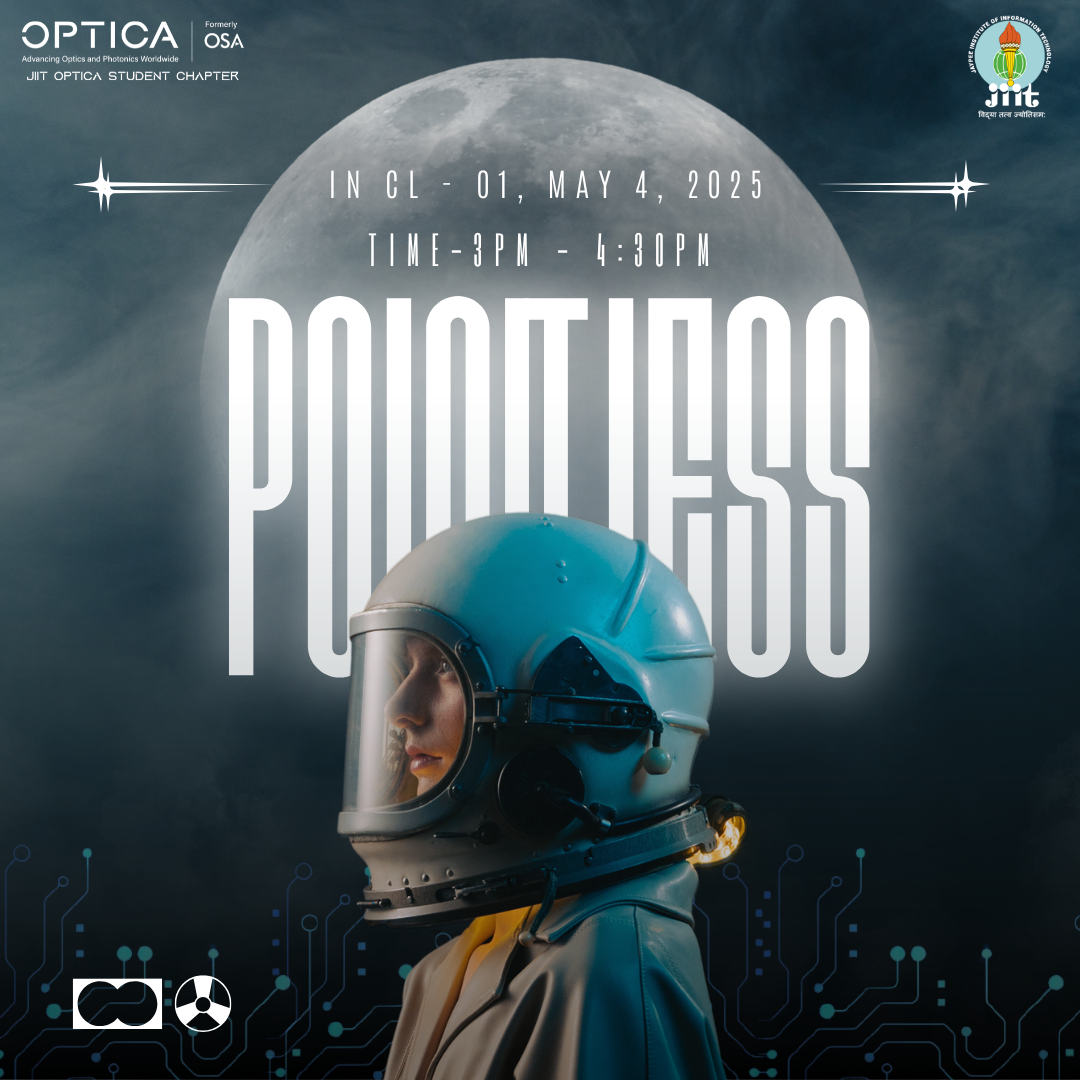
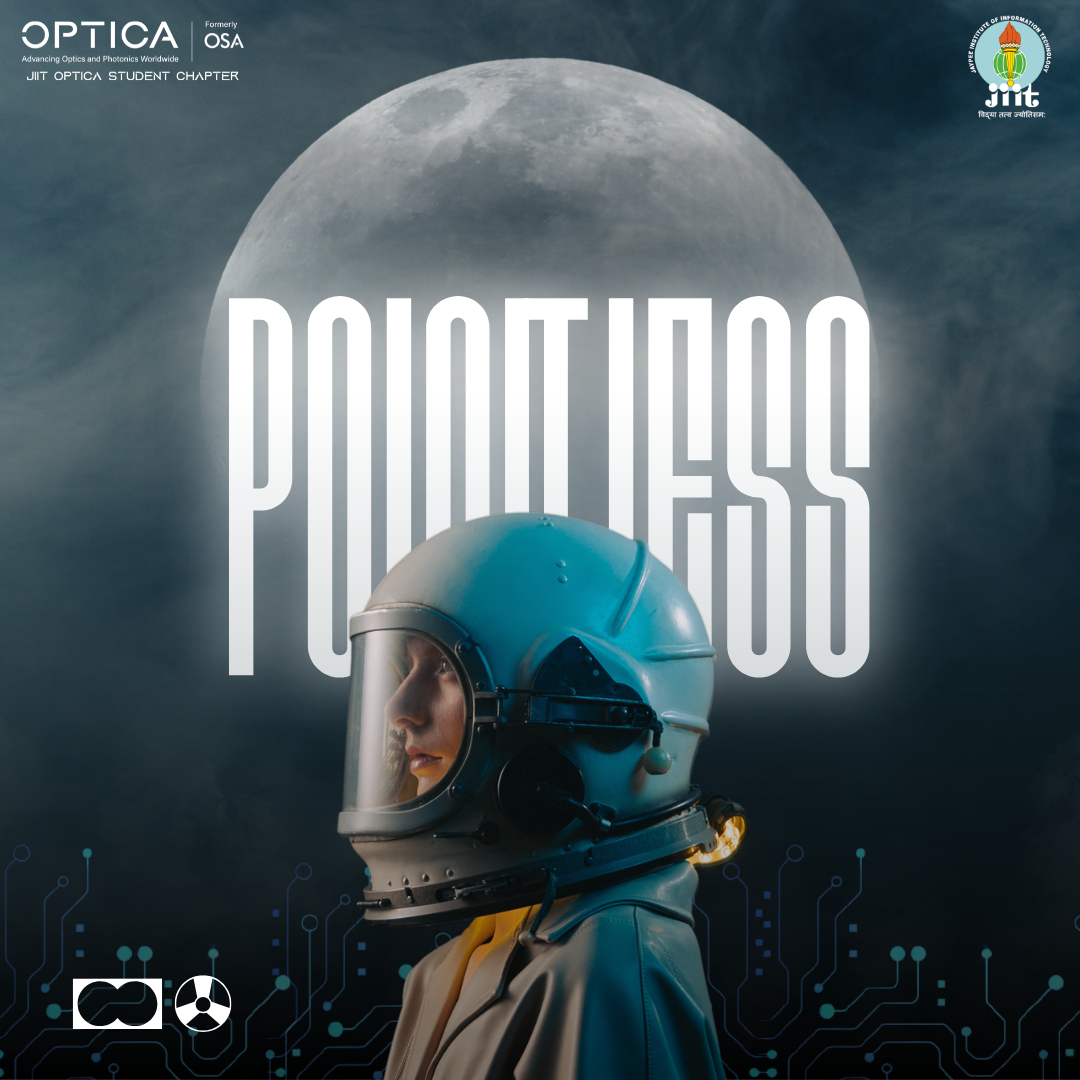
changed image path

diff --git a/client/src/App.css b/client/src/App.css
@@ -1,9 +1,37 @@
-/* General Styles */
 body {
     font-family: 'Segoe UI', Tahoma, Geneva, Verdana, sans-serif;
-    background-image: url(public/Pointless.png);
+    background-image: url('Pointless.png');
     background-size: cover;
     background-repeat: no-repeat;
+    background-position: center 55%;
+    background-attachment: fixed; /* This keeps the background fixed during scrolling */
+    height: 100vh;
+    margin: 0;
+    
+    /* Glassmorphism effect directly in body */
+    position: relative;
+  }
+  
+  /* Pseudo-element for the glassmorphism effect */
+  body::before {
+    content: "";
+    position: fixed; /* Changed from absolute to fixed */
+    top: 0;
+    left: 0;
+    right: 0;
+    bottom: 0;
+    height: 100vh;
+    width: 100%;
+    background: rgba(0, 0, 0, 0.5);
+    backdrop-filter: blur(4px);
+    -webkit-backdrop-filter: blur(8px);
+    z-index: 1;
+  }
+  
+  /* Ensure content appears above the glassmorphism layer */
+  body > * {
+    position: relative;
+    z-index: 2;
   }
   
   .app-container {
@@ -115,14 +143,7 @@ body {
     min-height: 100vh;
   }
   
-  .login-form-container {
-    width: 100%;
-    max-width: 400px;
-    background-color: white;
-    padding: 32px;
-    border-radius: 8px;
-    box-shadow: 0 4px 6px rgba(0, 0, 0, 0.1);
-  }
+  
   
   .login-form-container h1 {
     margin-top: 0;
@@ -270,11 +291,11 @@ body {
   
   .form-footer p {
     margin: 0;
-    color: #6c757d;
+    color: #000;
   }
   
   .form-footer a {
-    color: #007bff;
+    color: #003a79;
     text-decoration: none;
   }
   

diff --git a/client/src/pages/LeaderboardPage.css b/client/src/pages/LeaderboardPage.css
@@ -17,7 +17,7 @@
   .leaderboard-header h1 {
     font-size: 2.2rem;
     margin: 0;
-    color: #2c3e50;
+    color: white;
   }
   
   .navigation-links {
@@ -32,11 +32,18 @@
     padding: 8px 15px;
     border-radius: 4px;
     transition: all 0.2s;
-  }
-  
-  .nav-link:hover {
-    background-color: #f8f9fa;
-  }
+    border: 1px solid #3498db;
+    background: rgba(255, 255, 255, 0.1);
+    backdrop-filter: blur(5px);
+    -webkit-backdrop-filter: blur(5px);
+    box-shadow: 0 4px 6px rgba(0, 0, 0, 0.1);
+   }
+   
+   /* Optional hover effect */
+   .nav-link:hover {
+    background: rgba(255, 255, 255, 0.2);
+    border-color: rgba(255, 255, 255, 0.3);
+   }
   
   .refresh-controls {
     display: flex;
@@ -65,6 +72,7 @@
     padding: 5px 10px;
     border-radius: 4px;
     border: 1px solid #ced4da;
+    color: black;
   }
   
   .btn-refresh {
@@ -78,7 +86,7 @@
   .leaderboard-content h2 {
     font-size: 1.8rem;
     margin-bottom: 20px;
-    color: #2c3e50;
+    color: white;
   }
   
   .loading-spinner {
@@ -266,24 +274,6 @@
     display: flex;
     gap: 15px;
     align-items: center;
-  }
-  
-  .nav-link {
-    text-decoration: none;
-    color: #3498db;
-    font-weight: 500;
-    padding: 8px 15px;
-    border-radius: 4px;
-    transition: all 0.2s;
-    cursor: pointer;
-    background: none;
-    border: none;
-    font-family: inherit;
-    font-size: 1rem;
-  }
-  
-  .nav-link:hover {
-    background-color: #f8f9fa;
   }
   
   .logout-button {

diff --git a/client/src/pages/LoginPage.css b/client/src/pages/LoginPage.css
@@ -16,6 +16,7 @@ body{
     /* background-color: #ffffff; */
     padding: 40px 30px;
     border-radius: 12px;
+    background-color: rgba(149, 149, 149, 0.764);
     box-shadow: 0 8px 24px rgba(0, 0, 0, 0.1);
     width: 100%;
     max-width: 400px;
@@ -37,7 +38,7 @@ body{
     display: block;
     font-weight: 600;
     margin-bottom: 8px;
-    color: #34495e;
+    color: black;
   }
   
   .form-group input {

diff --git a/client/src/pages/PointlessGame.css b/client/src/pages/PointlessGame.css
@@ -29,19 +29,6 @@
     gap: 15px;
   }
   
-  .nav-link {
-    text-decoration: none;
-    color: #3498db;
-    font-weight: 500;
-    padding: 8px 15px;
-    border-radius: 4px;
-    transition: all 0.2s;
-  }
-  
-  .nav-link:hover {
-    background-color: #f1f3f5;
-  }
-  
   .logout-button {
     color: white;
     font-weight: 600;

diff --git a/client/src/pages/LandingPage.css b/client/src/pages/LandingPage.css
@@ -32,8 +32,7 @@
     gap: 15px;
   }
   
-  .leaderboard-button, .logout-button {
-    background:  white;
+  .leaderboard-button {
     border: 2px solid #fff;
     color: black;
     padding: 10px 20px;

diff --git a/client/src/index.css b/client/src/index.css
@@ -5,7 +5,6 @@
   
     color-scheme: light dark;
     color: black;
-    background-color: #e90000;
   
     font-synthesis: none;
     text-rendering: optimizeLegibility;

diff --git a/client/src/pages/SignupPage.css b/client/src/pages/SignupPage.css
@@ -37,7 +37,7 @@ body{
     display: block;
     font-weight: 600;
     margin-bottom: 8px;
-    color: #34495e;
+    color: black;
   }
   
   .form-group input {
